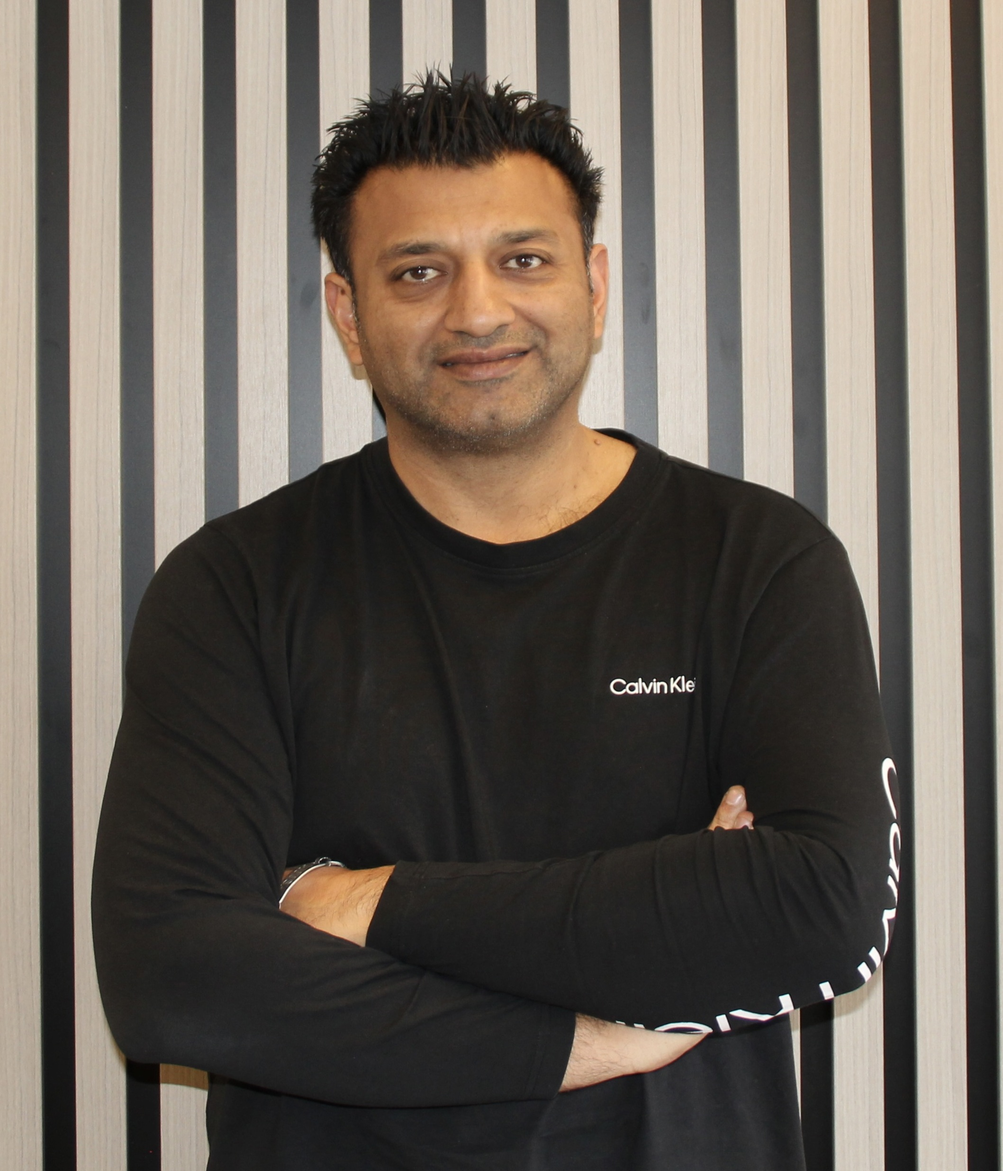
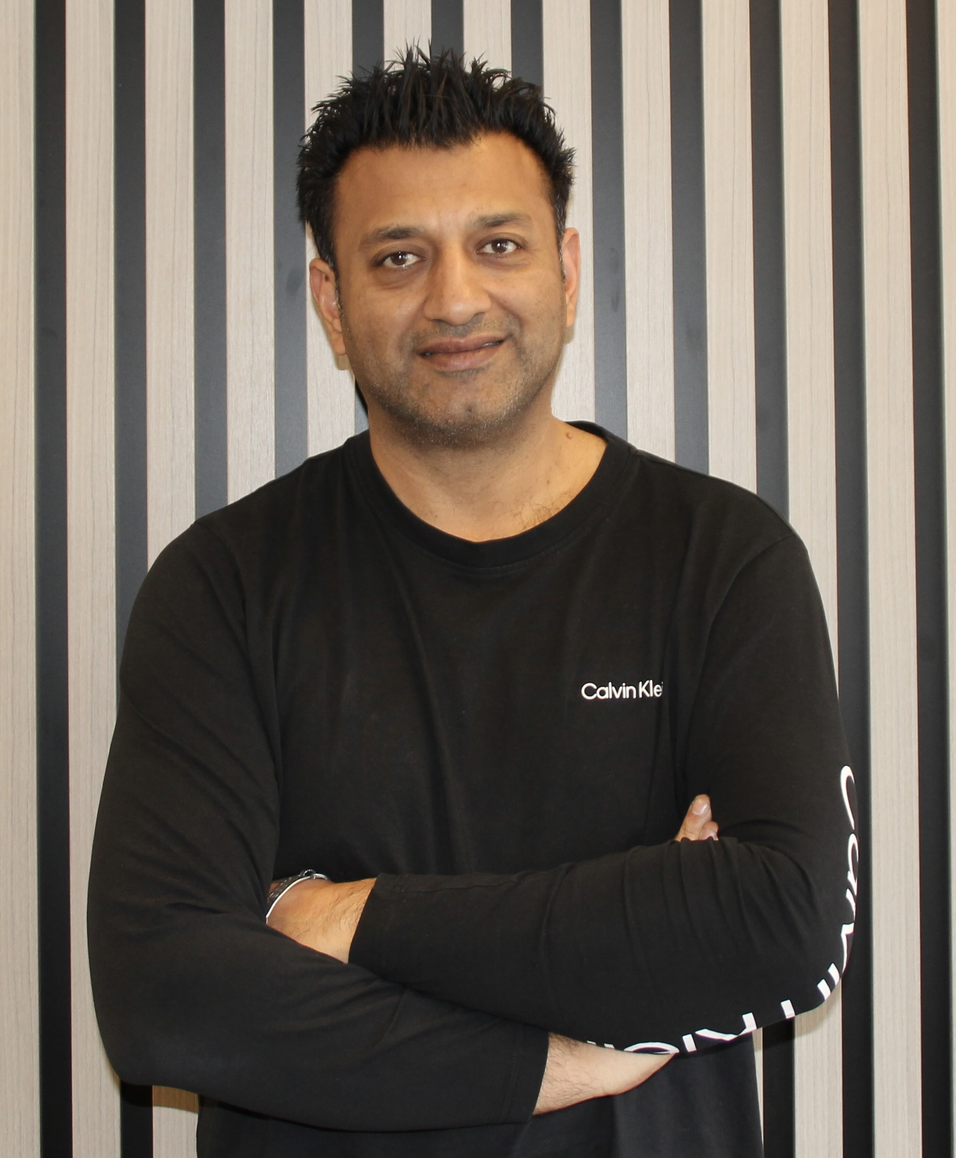
hjemside
endret på de runde bildene av moosa og naila

diff --git a/src/pages/Hjem.jsx b/src/pages/Hjem.jsx
@@ -149,12 +149,12 @@ function Møtoss({ language }) {
                     <h2>{textData.meet_us }</h2>
                 </div>
                 <div className="kontaktOssKort">
-                        <img className="kontaktOssKort-img" src="./Moosa.jpg" alt="Bilde av Moosa, en av grunnleggerne av M&N Regnskap (Statsautorisert regnskapsfører)" />
+                        <img className="kontaktOssKort-img" src="./moosa-hjemside.jpeg" alt="Bilde av Moosa, en av grunnleggerne av M&N Regnskap (Statsautorisert regnskapsfører)" />
                         <h2>MOOSA ALI RASHID</h2>
                         <p>{textData.charted_accountant}</p>
                 </div>
                 <div className="kontaktOssKort">
-                        <img className="kontaktOssKort-img" src="./Naila.png" alt="Bilde av Naila, en av grunnleggerne av M&N Regnskap (Statsautorisert regnskapsfører)" />
+                        <img className="kontaktOssKort-img" src="./naila-hjemmeside.jpeg" alt="Bilde av Naila, en av grunnleggerne av M&N Regnskap (Statsautorisert regnskapsfører)" />
                         <h2>NAILA SOHAIL KHOKHAR</h2>
                         <p>{textData.charted_accountant}</p>
                 </div>
